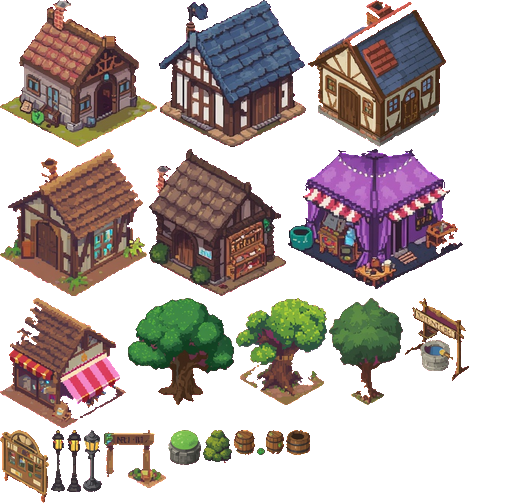
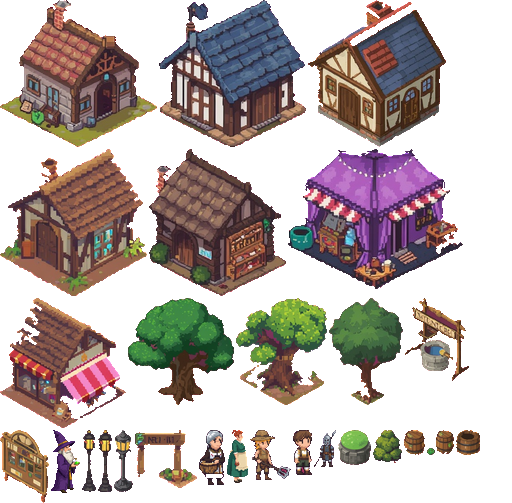
Vecinos de Villa Candela pintados
- Brunilda, Maese Ivo y los cuatro aldeanos (granjero, anciana, guardia y
  niño) usan sprites generados, añadidos al atlas del pueblo
- Respiran en reposo y rebotan al caminar; los NPC miran al héroe

Claude-Session: https://claude.ai/code/session_015RNUyaQ6fKR3Ufego5oPP2

Changed region(s): [[0.0938, 0.835, 0.9375, 0.9841]]

diff --git a/www/js/props_data.js b/www/js/props_data.js
@@ -1,4 +1,4 @@
 /* Generado por tools/art/build_props.py — no editar a mano. */
 'use strict';
 const PROP_WU_PER_PX = 1.2;
-const PROP_ATLAS = {"ceniza":{"tree":[[0,0,94,103],[96,0,71,103],[169,0,46,103],[217,0,73,103]],"pillar":[[292,0,38,73],[332,0,23,73],[357,0,44,73],[403,0,30,73]],"crystal":[[435,0,49,48],[0,105,50,48]],"brazier":[[52,105,24,43],[78,105,30,43]],"rock":[[110,105,39,38],[151,105,36,38],[189,105,43,38],[234,105,53,38]],"fern":[[289,105,24,18],[315,105,13,18],[330,105,19,18]],"bones":[[351,105,21,17]]},"pantano":{"tree":[[0,0,86,103],[88,0,79,103],[169,0,75,103],[246,0,111,103]],"pillar":[[359,0,39,73],[400,0,52,73]],"crystal":[[454,0,53,48],[0,105,50,48]],"rock":[[52,105,36,38],[90,105,46,38],[138,105,45,38]],"shroom":[[185,105,16,18],[203,105,16,18],[221,105,14,18],[237,105,15,18]]},"glaciar":{"tree":[[0,0,84,103],[86,0,69,103],[157,0,79,103],[238,0,72,103],[312,0,66,103],[380,0,89,103]],"pillar":[[471,0,33,73],[0,105,25,73],[27,105,38,73],[67,105,36,73]],"crystal":[[105,105,55,48],[162,105,51,48],[215,105,49,48],[266,105,44,48]],"brazier":[[312,105,31,43],[345,105,28,43],[375,105,33,43]],"rock":[[410,105,32,38],[444,105,37,38],[0,180,40,38],[42,180,41,38],[85,180,33,38]],"shard":[[120,180,21,17],[143,180,36,17],[181,180,34,17]]},"desierto":{"tree":[[0,0,76,103],[78,0,74,103],[154,0,72,103],[228,0,62,103]],"pillar":[[292,0,35,73],[329,0,36,73],[367,0,36,73],[405,0,47,73]],"crystal":[[454,0,50,48],[0,105,46,48],[48,105,47,48]],"brazier":[[97,105,43,43],[142,105,28,43],[172,105,59,43]],"rock":[[233,105,32,38],[267,105,51,38],[320,105,26,38],[348,105,52,38]],"skull":[[402,105,19,22],[423,105,22,22]]},"villa":{"house":[[0,0,157,147],[159,0,147,147],[308,0,138,147],[0,149,147,147],[149,149,137,147]],"alchemy":[[288,149,175,140]],"stall":[[0,298,126,130]],"oak":[[128,298,106,107],[236,298,91,107],[329,298,74,107]],"well":[[405,298,64,83]],"board":[[0,430,49,73]],"lamp":[[51,430,14,62],[67,430,14,62],[83,430,19,62]],"sign":[[104,430,62,58]],"cauldron":[[168,430,33,35]],"bush":[[203,430,29,33]],"barrel":[[234,430,21,25],[257,430,27,25],[286,430,24,25]]},"abismo":{"tree":[[0,0,66,103],[68,0,65,103],[135,0,102,103]],"pillar":[[239,0,33,73],[274,0,55,73],[331,0,55,73],[388,0,39,73]],"crystal":[[429,0,50,48],[0,105,57,48],[59,105,40,48]],"brazier":[[101,105,26,43],[129,105,35,43]],"rock":[[166,105,29,38],[197,105,34,38],[233,105,30,38],[265,105,39,38],[306,105,26,38]]}};
+const PROP_ATLAS = {"ceniza":{"tree":[[0,0,94,103],[96,0,71,103],[169,0,46,103],[217,0,73,103]],"pillar":[[292,0,38,73],[332,0,23,73],[357,0,44,73],[403,0,30,73]],"crystal":[[435,0,49,48],[0,105,50,48]],"brazier":[[52,105,24,43],[78,105,30,43]],"rock":[[110,105,39,38],[151,105,36,38],[189,105,43,38],[234,105,53,38]],"fern":[[289,105,24,18],[315,105,13,18],[330,105,19,18]],"bones":[[351,105,21,17]]},"pantano":{"tree":[[0,0,86,103],[88,0,79,103],[169,0,75,103],[246,0,111,103]],"pillar":[[359,0,39,73],[400,0,52,73]],"crystal":[[454,0,53,48],[0,105,50,48]],"rock":[[52,105,36,38],[90,105,46,38],[138,105,45,38]],"shroom":[[185,105,16,18],[203,105,16,18],[221,105,14,18],[237,105,15,18]]},"glaciar":{"tree":[[0,0,84,103],[86,0,69,103],[157,0,79,103],[238,0,72,103],[312,0,66,103],[380,0,89,103]],"pillar":[[471,0,33,73],[0,105,25,73],[27,105,38,73],[67,105,36,73]],"crystal":[[105,105,55,48],[162,105,51,48],[215,105,49,48],[266,105,44,48]],"brazier":[[312,105,31,43],[345,105,28,43],[375,105,33,43]],"rock":[[410,105,32,38],[444,105,37,38],[0,180,40,38],[42,180,41,38],[85,180,33,38]],"shard":[[120,180,21,17],[143,180,36,17],[181,180,34,17]]},"desierto":{"tree":[[0,0,76,103],[78,0,74,103],[154,0,72,103],[228,0,62,103]],"pillar":[[292,0,35,73],[329,0,36,73],[367,0,36,73],[405,0,47,73]],"crystal":[[454,0,50,48],[0,105,46,48],[48,105,47,48]],"brazier":[[97,105,43,43],[142,105,28,43],[172,105,59,43]],"rock":[[233,105,32,38],[267,105,51,38],[320,105,26,38],[348,105,52,38]],"skull":[[402,105,19,22],[423,105,22,22]]},"villa":{"house":[[0,0,157,147],[159,0,147,147],[308,0,138,147],[0,149,147,147],[149,149,137,147]],"alchemy":[[288,149,175,140]],"stall":[[0,298,126,130]],"oak":[[128,298,106,107],[236,298,91,107],[329,298,74,107]],"well":[[405,298,64,83]],"board":[[0,430,49,73]],"alchemist":[[51,430,29,63]],"lamp":[[82,430,14,62],[98,430,14,62],[114,430,19,62]],"sign":[[135,430,62,58]],"vil2":[[199,430,26,55]],"merchant":[[227,430,21,53]],"vil0":[[250,430,41,50]],"vil1":[[293,430,19,45]],"vil3":[[314,430,22,37]],"cauldron":[[338,430,33,35]],"bush":[[373,430,29,33]],"barrel":[[404,430,21,25],[427,430,27,25],[456,430,24,25]]},"abismo":{"tree":[[0,0,66,103],[68,0,65,103],[135,0,102,103]],"pillar":[[239,0,33,73],[274,0,55,73],[331,0,55,73],[388,0,39,73]],"crystal":[[429,0,50,48],[0,105,57,48],[59,105,40,48]],"brazier":[[101,105,26,43],[129,105,35,43]],"rock":[[166,105,29,38],[197,105,34,38],[233,105,30,38],[265,105,39,38],[306,105,26,38]]}};

diff --git a/www/js/village.js b/www/js/village.js
@@ -477,7 +477,8 @@ function drawNpc(n) {
   ctx.save();
   ctx.translate(n.x, n.y);
   if (vHero.x > n.x + 20) ctx.scale(-1, 1); // mira hacia el héroe
-  sprite('npc|' + n.id + '|' + fi, 60, 100, 30, 96, () => (n.id === 'merchant' ? artMerchant : artAlchemist)(fi / 8));
+  if (!drawVillager(n.id, 0, 0, -1, false, now + n.x * 0.01)) // el sprite mira a la derecha: -1 para que, con el volteo de arriba, mire al héroe
+    sprite('npc|' + n.id + '|' + fi, 60, 100, 30, 96, () => (n.id === 'merchant' ? artMerchant : artAlchemist)(fi / 8));
   ctx.restore();
   // nombre e indicador flotante
   const bob = Math.sin(now * 3 + n.x) * 3;
@@ -734,6 +735,7 @@ function artHen(p, peck) {
 function drawWalker(w) {
   const fi = w.moving ? Math.floor((w.walkT * 2.2) % 1 * 8) : Math.floor(((now * 0.4 + w.id * 0.3) % 1) * 8);
   shadow(w.x, w.y + 1, w.v.kid ? 9 : 12);
+  if (drawVillager('vil' + w.id, w.x, w.y, w.face, w.moving, w.moving ? w.walkT : now + w.id)) return;
   ctx.save(); ctx.translate(w.x, w.y); ctx.scale(w.face, 1);
   sprite('vil|' + w.id + '|' + fi + '|' + (w.moving ? 1 : 0), 50, 92, 25, 88, () => artVillager(w.v, fi / 8, w.moving));
   ctx.restore();

diff --git a/www/js/props.js b/www/js/props.js
@@ -94,3 +94,20 @@ function drawVillaSprite(o) {
   blitProp(fr, o.x, o.y, scale);
   return true;
 }
+
+// Vecinos pintados: personaje de pie que respira o camina (rebote y balanceo suaves)
+function drawVillager(kind, x, y, face, moving, t) {
+  const img = PROP_IMG.villa, list = PROP_ATLAS.villa && PROP_ATLAS.villa[kind];
+  if (!img || !list) return false;
+  const f = list[0];
+  const hop = moving ? Math.abs(Math.sin(t * 9)) * 2.2 : 0;
+  const breath = moving ? 0 : Math.sin(t * 2.4) * 0.012;
+  const w = f[2] * PROP_WU_PER_PX, h = f[3] * PROP_WU_PER_PX;
+  ctx.save();
+  ctx.translate(x, y - hop);
+  ctx.rotate(moving ? Math.sin(t * 9) * 0.05 : 0);
+  ctx.scale(face * (1 - breath * 0.5), 1 + breath);
+  ctx.drawImage(img, f[0], f[1], f[2], f[3], -w / 2, -h + 2, w, h);
+  ctx.restore();
+  return true;
+}

diff --git a/tools/art/build_props.py b/tools/art/build_props.py
@@ -14,7 +14,8 @@ WORLD_H = {'tree': 124, 'pillar': 88, 'rock': 46, 'crystal': 58, 'brazier': 52,
            'fern': 22, 'bones': 20, 'shroom': 22, 'skull': 26, 'shard': 20,
            # Villa Candela
            'house': 176, 'stall': 156, 'alchemy': 168, 'well': 100, 'lamp': 74, 'barrel': 30, 'bush': 40,
-           'sign': 70, 'cauldron': 42, 'board': 88, 'oak': 128}
+           'sign': 70, 'cauldron': 42, 'board': 88, 'oak': 128,
+           'merchant': 64, 'alchemist': 76, 'vil0': 60, 'vil1': 54, 'vil2': 66, 'vil3': 44}
 WU_PER_PX = 1.2  # densidad de píxel (≈ la del búfer HD-2D)
 
 SEL = {
@@ -62,6 +63,9 @@ SEL = {
         'cauldron': ['v-3/17'],
         'board': ['v-3/10'],
         'oak': ['v-3/13', 'v-2/09', 'v-0/10'],
+        # vecinos (vil0 granjero, vil1 anciana, vil2 guardia, vil3 niño: mismo orden que VILLAGERS)
+        'merchant': ['n2-0/00'], 'alchemist': ['n1-0/00'],
+        'vil0': ['n0-0/00'], 'vil1': ['n0-0/03'], 'vil2': ['n0-0/02'], 'vil3': ['n0-0/01'],
     },
     'abismo': {
         'tree': ['g5-0/00', 'g5-0/03', 'g5-1/01'],
